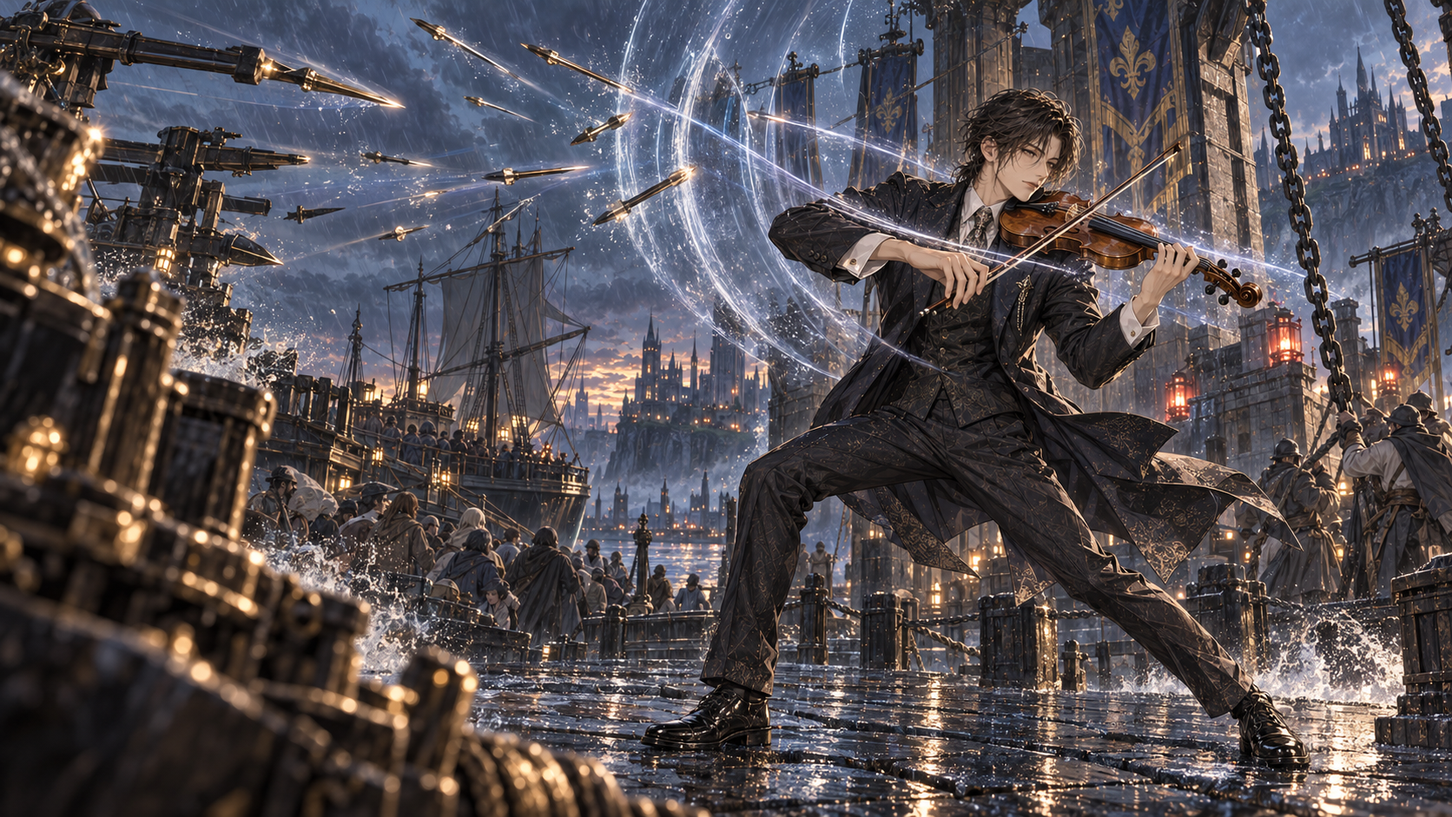
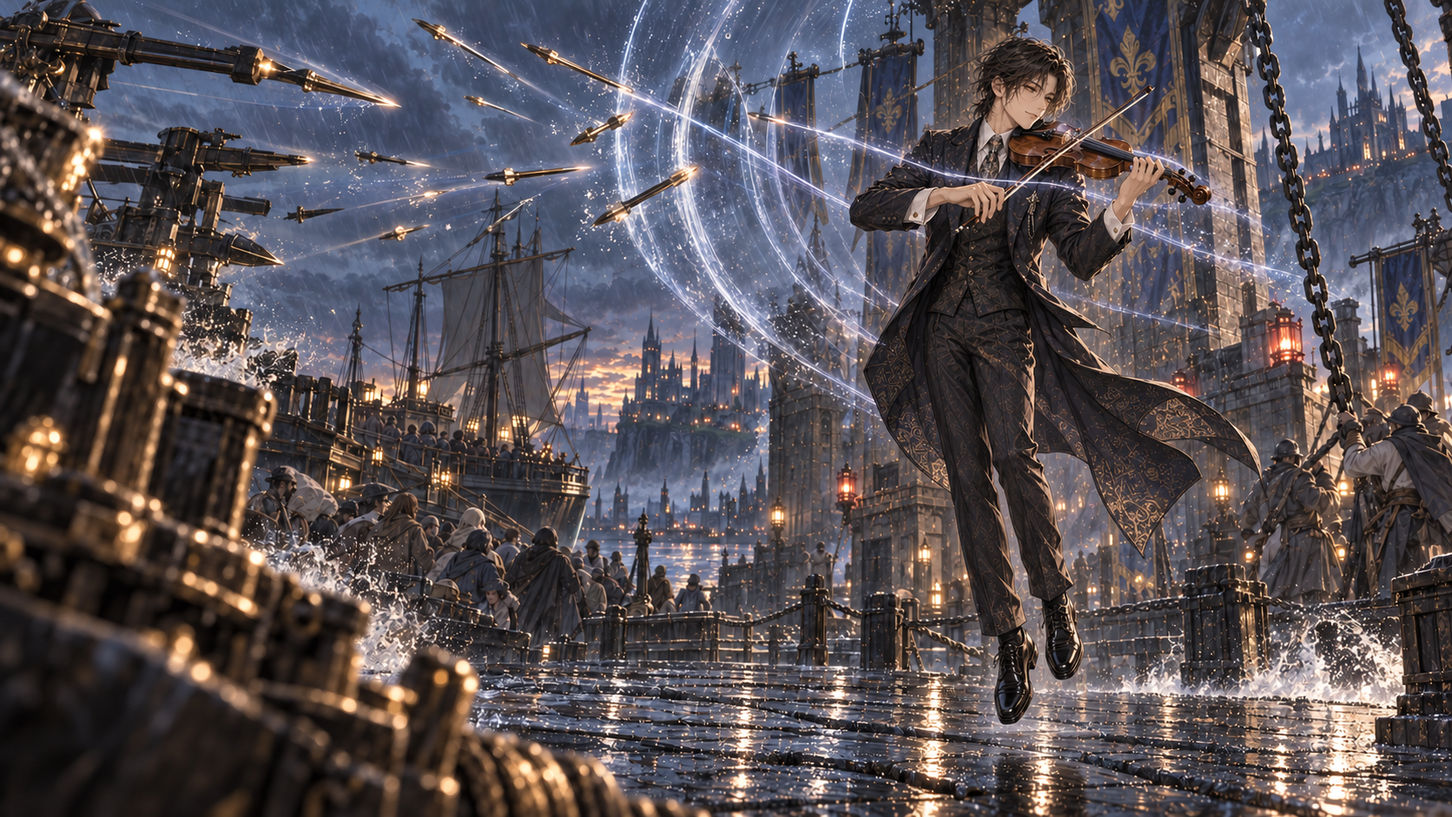
Redraw Soichi as serene floating violinist and Xiangxiang with sword and spirit flasks

diff --git a/docs/gallery/03.html b/docs/gallery/03.html
@@ -15,11 +15,11 @@
 <a class="brand" href="../" aria-label="九域守界首页"><span class="brand-mark" aria-hidden="true">九</span><span>九域守界</span></a>
 <nav aria-label="主导航"><a href="../gallery/" aria-current="page">人物图集</a><a href="../world/">世界观</a><a href="../chapters/">正文阅读</a><a href="../art/">印象画廊</a><a href="../fanworks/">二创</a><a class="repo-link" href="https://github.com/SDLTF/jiuyu-shoujie" target="_blank" rel="noopener">GitHub <span aria-hidden="true">↗</span></a></nav>
 </div></header>
-<main id="main"><div class="page-backdrop" aria-hidden="true"></div><section class="character-scene" data-scene-name="土方奏一" aria-label="土方奏一专属场景"><picture class="character-scene-art scene-slide is-active" data-scene-label="角色大图" data-scene-image="../assets/character-backgrounds/03.webp?v=3617d26fdf" data-scene-original="https://raw.githubusercontent.com/SDLTF/jiuyu-shoujie/main/assets/character-backgrounds/03.png" data-scene-kind="portrait" aria-hidden="true"><source media="(max-width: 640px)" srcset="../assets/character-backgrounds/03-mobile.webp?v=1d1843e5d5"><img src="../assets/character-backgrounds/03.webp?v=3617d26fdf" alt="" width="1672" height="941" fetchpriority="high"></picture><picture class="character-scene-art scene-slide" data-scene-label="战斗场景" data-scene-image="../assets/character-battles/03.webp?v=5318d3c48b" data-scene-original="https://raw.githubusercontent.com/SDLTF/jiuyu-shoujie/main/assets/character-battles/03.png" data-scene-kind="battle" style="--scene-focus-x:69%" aria-hidden="true"><img data-scene-src="../assets/character-battles/03.webp?v=5318d3c48b" data-scene-srcset="../assets/character-battles/03-480.webp?v=6d19a0b7c6 480w, ../assets/character-battles/03-960.webp?v=1443861413 959w, ../assets/character-battles/03.webp?v=5318d3c48b 1672w" sizes="(max-width: 640px) 200vw, max(100vw, 1600px)" alt="" width="1672" height="941" decoding="async"></picture><div class="scene-shade" aria-hidden="true"></div><div class="page-shell scene-content"><nav class="breadcrumbs" aria-label="位置"><a href="./">人物图集</a><span aria-hidden="true">/</span><span>土方奏一</span></nav>
+<main id="main"><div class="page-backdrop" aria-hidden="true"></div><section class="character-scene" data-scene-name="土方奏一" aria-label="土方奏一专属场景"><picture class="character-scene-art scene-slide is-active" data-scene-label="角色大图" data-scene-image="../assets/character-backgrounds/03.webp?v=3617d26fdf" data-scene-original="https://raw.githubusercontent.com/SDLTF/jiuyu-shoujie/main/assets/character-backgrounds/03.png" data-scene-kind="portrait" aria-hidden="true"><source media="(max-width: 640px)" srcset="../assets/character-backgrounds/03-mobile.webp?v=1d1843e5d5"><img src="../assets/character-backgrounds/03.webp?v=3617d26fdf" alt="" width="1672" height="941" fetchpriority="high"></picture><picture class="character-scene-art scene-slide" data-scene-label="战斗场景" data-scene-image="../assets/character-battles/03.webp?v=aff09be343" data-scene-original="https://raw.githubusercontent.com/SDLTF/jiuyu-shoujie/main/assets/character-battles/03.png" data-scene-kind="battle" style="--scene-focus-x:69%" aria-hidden="true"><img data-scene-src="../assets/character-battles/03.webp?v=aff09be343" data-scene-srcset="../assets/character-battles/03-480.webp?v=f78aebe76f 480w, ../assets/character-battles/03-960.webp?v=01ba61d4ff 959w, ../assets/character-battles/03.webp?v=aff09be343 1672w" sizes="(max-width: 640px) 200vw, max(100vw, 1600px)" alt="" width="1672" height="941" decoding="async"></picture><div class="scene-shade" aria-hidden="true"></div><div class="page-shell scene-content"><nav class="breadcrumbs" aria-label="位置"><a href="./">人物图集</a><span aria-hidden="true">/</span><span>土方奏一</span></nav>
 <header class="profile-heading"><div class="profile-avatar"><span class="avatar-window" data-avatar-style="original"><img data-avatar data-avatar-name="土方奏一" data-original-src="../assets/avatars/03-512.webp?v=c9cff16d51" data-original-srcset="../assets/avatars/03-256.webp?v=b8b3d1aaa7 256w, ../assets/avatars/03-512.webp?v=c9cff16d51 512w" data-chibi-src="../assets/chibi-avatars/03-512.webp?v=cea6bc5899" data-chibi-srcset="../assets/chibi-avatars/03-256.webp?v=d05bf43406 256w, ../assets/chibi-avatars/03-512.webp?v=cea6bc5899 410w" src="../assets/avatars/03-512.webp?v=c9cff16d51" srcset="../assets/avatars/03-256.webp?v=b8b3d1aaa7 256w, ../assets/avatars/03-512.webp?v=c9cff16d51 512w" sizes="94px" alt="土方奏一头像" width="512" height="512" fetchpriority="high" decoding="async"></span></div><div class="profile-heading-copy"><p class="eyebrow">九域守界 / 人物档案 03</p><h1>土方奏一</h1><p class="profile-name-line">陈彦堃</p><div class="profile-basic"><span>男性人类</span><span>23岁</span><span>181厘米</span></div></div></header><div class="avatar-switch" role="group" aria-label="图像风格" hidden><span class="avatar-switch-label">图像风格</span><div class="avatar-switch-options"><button type="button" data-avatar-choice="original" aria-pressed="true">原版头像</button><button type="button" data-avatar-choice="chibi" aria-pressed="false">Q版全身</button></div></div><blockquote class="profile-quote">“这一段我来。下一拍，听你们的。”</blockquote>
 <div class="scene-rotation-controls" role="group" aria-label="土方奏一背景轮换" hidden><span class="scene-rotation-label">背景切换</span><div class="scene-choices"><button type="button" data-scene-select="0" aria-pressed="true">角色大图</button><button type="button" data-scene-select="1" aria-pressed="false">战斗场景</button></div><button type="button" class="scene-rotation-toggle" aria-pressed="false">暂停轮换</button><span class="scene-current">角色大图 · 每 12 秒轮换</span><span class="scene-announcement" role="status"></span></div><div class="scene-actions"><div class="scene-action-group"><button type="button" class="button secondary image-open scene-view-current" data-image="../assets/character-backgrounds/03.webp?v=3617d26fdf" data-name="土方奏一 · 角色大图" data-kind="角色大图" data-original="https://raw.githubusercontent.com/SDLTF/jiuyu-shoujie/main/assets/character-backgrounds/03.png">查看当前大图 ↗</button><a href="https://raw.githubusercontent.com/SDLTF/jiuyu-shoujie/main/assets/character-backgrounds/03.png" target="_blank" rel="noopener" class="scene-original scene-original-current">背景原图</a></div><div class="scene-action-group"><button type="button" class="button secondary image-open avatar-open" data-avatar-viewer data-avatar-name="土方奏一" data-original-image="../assets/avatars/03.webp?v=4e27b1e418" data-chibi-image="../assets/chibi-avatars/03.webp?v=5cb47b2b52" data-original-source="https://raw.githubusercontent.com/SDLTF/jiuyu-shoujie/main/assets/avatars/03.png" data-chibi-source="https://raw.githubusercontent.com/SDLTF/jiuyu-shoujie/main/assets/chibi-avatars/03.png" data-image="../assets/avatars/03.webp?v=4e27b1e418" data-name="土方奏一 · 人物头像" data-kind="人物头像" data-original="https://raw.githubusercontent.com/SDLTF/jiuyu-shoujie/main/assets/avatars/03.png">查看人物头像 ↗</button><a data-avatar-download data-original-source="https://raw.githubusercontent.com/SDLTF/jiuyu-shoujie/main/assets/avatars/03.png" data-chibi-source="https://raw.githubusercontent.com/SDLTF/jiuyu-shoujie/main/assets/chibi-avatars/03.png" href="https://raw.githubusercontent.com/SDLTF/jiuyu-shoujie/main/assets/avatars/03.png" target="_blank" rel="noopener" class="scene-original">头像原图</a></div></div></div></section><div class="page-shell character-profile">
 <section id="chibi-stickers" class="profile-stickers" aria-labelledby="chibi-title"><div class="sticker-section-heading"><div><p class="eyebrow">CHIBI / 角色的另一种表情</p><h2 id="chibi-title">Q版全身立绘与表情包</h2><p>一张完整立绘，三种不同心情。点击图片放大，或下载透明原图。</p></div><div class="sticker-links"><a href="https://raw.githubusercontent.com/SDLTF/jiuyu-shoujie/main/assets/chibi-stickers/sheets/03.png" target="_blank" rel="noopener">查看四宫格 ↗</a><a href="../stickers/#role-03">全部角色表情包 →</a></div></div><div class="sticker-grid"><figure class="sticker-card"><button type="button" class="image-open sticker-image" data-image="../assets/chibi-stickers/03/01.webp?v=6e266d61c1" data-name="土方奏一 · 巡演音乐生" data-kind="Q版全身立绘" data-alt="站立持小提琴和琴弓，礼服衣摆与双鞋完整。" data-original="../assets/chibi-stickers/03/01.png?v=d553f5f53b" aria-label="放大土方奏一 · 巡演音乐生"><img src="../assets/chibi-stickers/03/01.webp?v=6e266d61c1" srcset="../assets/chibi-stickers/03/01-256.webp?v=7585213feb 256w, ../assets/chibi-stickers/03/01.webp?v=6e266d61c1 410w" sizes="(max-width:640px) 43vw, (max-width:1000px) 40vw, 280px" width="410" height="410" alt="站立持小提琴和琴弓，礼服衣摆与双鞋完整。" loading="lazy" decoding="async"><span class="image-hint">放大查看 ↗</span></button><figcaption><span class="sticker-kind">全身立绘</span><h3>巡演音乐生</h3><p>平静</p><a href="../assets/chibi-stickers/03/01.png?v=d553f5f53b" download="03_土方奏一_01_巡演音乐生.png">下载透明 PNG ↓</a></figcaption></figure><figure class="sticker-card"><button type="button" class="image-open sticker-image" data-image="../assets/chibi-stickers/03/02.webp?v=c93b861880" data-name="土方奏一 · 优美一曲" data-kind="Q版表情1" data-alt="闭眼笑着演奏小提琴，一只脚轻抬，音符在身旁浮起。" data-original="../assets/chibi-stickers/03/02.png?v=eeae83acd0" aria-label="放大土方奏一 · 优美一曲"><img src="../assets/chibi-stickers/03/02.webp?v=c93b861880" srcset="../assets/chibi-stickers/03/02-256.webp?v=3b3af25e5d 256w, ../assets/chibi-stickers/03/02.webp?v=c93b861880 408w" sizes="(max-width:640px) 43vw, (max-width:1000px) 40vw, 280px" width="408" height="408" alt="闭眼笑着演奏小提琴，一只脚轻抬，音符在身旁浮起。" loading="lazy" decoding="async"><span class="image-hint">放大查看 ↗</span></button><figcaption><span class="sticker-kind">表情1</span><h3>优美一曲</h3><p>陶醉</p><a href="../assets/chibi-stickers/03/02.png?v=eeae83acd0" download="03_土方奏一_02_优美一曲.png">下载透明 PNG ↓</a></figcaption></figure><figure class="sticker-card"><button type="button" class="image-open sticker-image" data-image="../assets/chibi-stickers/03/03.webp?v=815aa0a92c" data-name="土方奏一 · 不合拍" data-kind="Q版表情2" data-alt="坐在琴箱上抱臂，抿嘴微鼓脸，双鞋向前，汗滴表现闷闷不乐。" data-original="../assets/chibi-stickers/03/03.png?v=de7e72634f" aria-label="放大土方奏一 · 不合拍"><img src="../assets/chibi-stickers/03/03.webp?v=815aa0a92c" srcset="../assets/chibi-stickers/03/03-256.webp?v=7ed3877e36 256w, ../assets/chibi-stickers/03/03.webp?v=815aa0a92c 407w" sizes="(max-width:640px) 43vw, (max-width:1000px) 40vw, 280px" width="407" height="407" alt="坐在琴箱上抱臂，抿嘴微鼓脸，双鞋向前，汗滴表现闷闷不乐。" loading="lazy" decoding="async"><span class="image-hint">放大查看 ↗</span></button><figcaption><span class="sticker-kind">表情2</span><h3>不合拍</h3><p>嫌弃、无奈</p><a href="../assets/chibi-stickers/03/03.png?v=de7e72634f" download="03_土方奏一_03_不合拍.png">下载透明 PNG ↓</a></figcaption></figure><figure class="sticker-card"><button type="button" class="image-open sticker-image" data-image="../assets/chibi-stickers/03/04.webp?v=e0a499aa94" data-name="土方奏一 · 谢谢欣赏" data-kind="Q版表情3" data-alt="眨眼行礼，一手按胸，另一手携琴与弓，星光点亮身旁。" data-original="../assets/chibi-stickers/03/04.png?v=fd72631fe9" aria-label="放大土方奏一 · 谢谢欣赏"><img src="../assets/chibi-stickers/03/04.webp?v=e0a499aa94" srcset="../assets/chibi-stickers/03/04-256.webp?v=5dd14433f8 256w, ../assets/chibi-stickers/03/04.webp?v=e0a499aa94 416w" sizes="(max-width:640px) 43vw, (max-width:1000px) 40vw, 280px" width="416" height="416" alt="眨眼行礼，一手按胸，另一手携琴与弓，星光点亮身旁。" loading="lazy" decoding="async"><span class="image-hint">放大查看 ↗</span></button><figcaption><span class="sticker-kind">表情3</span><h3>谢谢欣赏</h3><p>得意</p><a href="../assets/chibi-stickers/03/04.png?v=fd72631fe9" download="03_土方奏一_04_谢谢欣赏.png">下载透明 PNG ↓</a></figcaption></figure></div></section><div class="profile-layout"><section class="dossier-section" aria-labelledby="dossier-title"><h2 id="dossier-title">人物展示卡</h2><button type="button" class="image-open dossier-image" data-image="../assets/images/03.webp" data-name="土方奏一" data-original="https://raw.githubusercontent.com/SDLTF/jiuyu-shoujie/main/assets/originals/03.png" aria-label="放大土方奏一人物展示卡"><img src="../assets/images/03.webp" alt="土方奏一完整人物展示卡" width="1774" height="887"><span class="image-hint">点击放大</span></button><div class="dossier-actions"><a class="button secondary" href="../assets/images/03.webp" target="_blank" rel="noopener">打开完整图片</a><a class="button secondary" href="https://raw.githubusercontent.com/SDLTF/jiuyu-shoujie/main/assets/originals/03.png" target="_blank" rel="noopener">查看原始 PNG</a></div></section><section class="profile-info" aria-labelledby="profile-info-title"><h2 id="profile-info-title">个人资料</h2><section class="profile-section"><h3>身份</h3><p>巡演音乐生 · 共振施术者</p></section><section class="profile-section"><h3>性格</h3><p>腹黑文艺，言语轻而锋利。</p><p>审美严格，演奏始终优美。</p></section><section class="profile-section"><h3>衣装与专武</h3><p>整洁西装</p><p>斯特拉迪瓦里小提琴</p></section><section class="profile-section"><h3>能力</h3><p>以共振掌控施法节拍。</p><p>技术与输出均属顶尖。</p></section><section class="profile-section"><h3>立场</h3><p>从维持均势到主动承担选择。</p></section></section></div>
-<section class="character-art-section" aria-labelledby="character-art-title"><header class="character-art-intro"><p class="eyebrow">SCENES & BATTLES / 角色插画</p><h2 id="character-art-title">人物插画与战斗壁纸</h2><p>走进角色的日常与交锋。点击图片放大，用左右按钮切换档案中的插画。</p></header><div class="character-art-grid"><article class="character-art-card character-art-portrait"><div class="character-art-heading"><p class="eyebrow">人设图-2</p><h3>叙事人设</h3></div><button type="button" class="image-open character-art-image" data-image="../assets/character-scenes/03.webp?v=05febad7c3" data-name="土方奏一 · 人设图-2 · 叙事人设" data-kind="人设图-2" data-alt="土方奏一：土方奏一的第二版人设插画，沿用已有角色外观，呈现独立的动作与场景。" data-original="https://raw.githubusercontent.com/SDLTF/jiuyu-shoujie/main/assets/character-scenes/03.png" aria-label="放大土方奏一的人设图-2"><img src="../assets/character-scenes/03.webp?v=05febad7c3" srcset="../assets/character-scenes/03-480.webp?v=5e1e8c19e7 480w, ../assets/character-scenes/03-960.webp?v=d45ad30c7b 960w, ../assets/character-scenes/03.webp?v=05febad7c3 1086w" sizes="(max-width: 760px) calc(100vw - 32px), 50vw" alt="土方奏一：土方奏一的第二版人设插画，沿用已有角色外观，呈现独立的动作与场景。" width="1086" height="1448" loading="lazy" decoding="async"><span class="image-hint">点击放大 · 完整构图</span></button><div class="character-art-description"><p>土方奏一的第二版人设插画，沿用已有角色外观，呈现独立的动作与场景。</p><a href="https://raw.githubusercontent.com/SDLTF/jiuyu-shoujie/main/assets/character-scenes/03.png" target="_blank" rel="noopener">查看原始 PNG ↗</a></div></article><article class="character-art-card character-art-battle"><div class="character-art-heading"><p class="eyebrow">战斗壁纸</p><h3>弦上逆潮</h3></div><button type="button" class="image-open character-art-image" data-image="../assets/character-battles/03.webp?v=5318d3c48b" data-name="土方奏一 · 战斗壁纸 · 弦上逆潮" data-kind="战斗壁纸" data-alt="土方奏一：小提琴的共振截住来袭，为港口撤离争取节拍。" data-original="https://raw.githubusercontent.com/SDLTF/jiuyu-shoujie/main/assets/character-battles/03.png" aria-label="放大土方奏一的战斗壁纸"><img src="../assets/character-battles/03.webp?v=5318d3c48b" srcset="../assets/character-battles/03-480.webp?v=6d19a0b7c6 480w, ../assets/character-battles/03-960.webp?v=1443861413 959w, ../assets/character-battles/03.webp?v=5318d3c48b 1672w" sizes="(max-width: 760px) calc(100vw - 32px), 50vw" alt="土方奏一：小提琴的共振截住来袭，为港口撤离争取节拍。" width="1672" height="941" loading="lazy" decoding="async"><span class="image-hint">点击放大 · 完整构图</span></button><div class="character-art-description"><p>小提琴的共振截住来袭，为港口撤离争取节拍。</p><a href="https://raw.githubusercontent.com/SDLTF/jiuyu-shoujie/main/assets/character-battles/03.png" target="_blank" rel="noopener">查看原始 PNG ↗</a></div></article></div></section><nav class="profile-pagination" aria-label="人物导航"><a href="02.html"><span>上一位</span>琉西法</a><a class="back-to-gallery" href="./">全部人物</a><a href="04.html"><span>下一位</span>贾小鱼</a></nav></div><dialog id="image-viewer" aria-labelledby="viewer-name"><div class="viewer-toolbar"><h2 id="viewer-name">人物档案</h2><div><button id="viewer-zoom" type="button" aria-pressed="false">放大细节</button><button id="viewer-close" type="button" aria-label="关闭图片">关闭 <span aria-hidden="true">×</span></button></div></div><div class="viewer-navigation" aria-label="图片切换"><button id="viewer-prev" type="button">← 上一幅</button><span id="viewer-position" aria-live="polite"></span><button id="viewer-next" type="button">下一幅 →</button></div><div class="viewer-image-wrap"><img id="viewer-image" alt=""></div><div class="viewer-bottom"><p class="viewer-tip">放大后可滑动查看图片细节</p><a id="viewer-original" target="_blank" rel="noopener">查看原始 PNG</a></div></dialog></main>
+<section class="character-art-section" aria-labelledby="character-art-title"><header class="character-art-intro"><p class="eyebrow">SCENES & BATTLES / 角色插画</p><h2 id="character-art-title">人物插画与战斗壁纸</h2><p>走进角色的日常与交锋。点击图片放大，用左右按钮切换档案中的插画。</p></header><div class="character-art-grid"><article class="character-art-card character-art-portrait"><div class="character-art-heading"><p class="eyebrow">人设图-2</p><h3>叙事人设</h3></div><button type="button" class="image-open character-art-image" data-image="../assets/character-scenes/03.webp?v=05febad7c3" data-name="土方奏一 · 人设图-2 · 叙事人设" data-kind="人设图-2" data-alt="土方奏一：土方奏一的第二版人设插画，沿用已有角色外观，呈现独立的动作与场景。" data-original="https://raw.githubusercontent.com/SDLTF/jiuyu-shoujie/main/assets/character-scenes/03.png" aria-label="放大土方奏一的人设图-2"><img src="../assets/character-scenes/03.webp?v=05febad7c3" srcset="../assets/character-scenes/03-480.webp?v=5e1e8c19e7 480w, ../assets/character-scenes/03-960.webp?v=d45ad30c7b 960w, ../assets/character-scenes/03.webp?v=05febad7c3 1086w" sizes="(max-width: 760px) calc(100vw - 32px), 50vw" alt="土方奏一：土方奏一的第二版人设插画，沿用已有角色外观，呈现独立的动作与场景。" width="1086" height="1448" loading="lazy" decoding="async"><span class="image-hint">点击放大 · 完整构图</span></button><div class="character-art-description"><p>土方奏一的第二版人设插画，沿用已有角色外观，呈现独立的动作与场景。</p><a href="https://raw.githubusercontent.com/SDLTF/jiuyu-shoujie/main/assets/character-scenes/03.png" target="_blank" rel="noopener">查看原始 PNG ↗</a></div></article><article class="character-art-card character-art-battle"><div class="character-art-heading"><p class="eyebrow">战斗壁纸</p><h3>弦上逆潮</h3></div><button type="button" class="image-open character-art-image" data-image="../assets/character-battles/03.webp?v=aff09be343" data-name="土方奏一 · 战斗壁纸 · 弦上逆潮" data-kind="战斗壁纸" data-alt="土方奏一：他气定神闲地悬浮演奏，双腿自然垂落，以小提琴共振截住来袭，守住港口撤离的节拍。" data-original="https://raw.githubusercontent.com/SDLTF/jiuyu-shoujie/main/assets/character-battles/03.png" aria-label="放大土方奏一的战斗壁纸"><img src="../assets/character-battles/03.webp?v=aff09be343" srcset="../assets/character-battles/03-480.webp?v=f78aebe76f 480w, ../assets/character-battles/03-960.webp?v=01ba61d4ff 959w, ../assets/character-battles/03.webp?v=aff09be343 1672w" sizes="(max-width: 760px) calc(100vw - 32px), 50vw" alt="土方奏一：他气定神闲地悬浮演奏，双腿自然垂落，以小提琴共振截住来袭，守住港口撤离的节拍。" width="1672" height="941" loading="lazy" decoding="async"><span class="image-hint">点击放大 · 完整构图</span></button><div class="character-art-description"><p>他气定神闲地悬浮演奏，双腿自然垂落，以小提琴共振截住来袭，守住港口撤离的节拍。</p><a href="https://raw.githubusercontent.com/SDLTF/jiuyu-shoujie/main/assets/character-battles/03.png" target="_blank" rel="noopener">查看原始 PNG ↗</a></div></article></div></section><nav class="profile-pagination" aria-label="人物导航"><a href="02.html"><span>上一位</span>琉西法</a><a class="back-to-gallery" href="./">全部人物</a><a href="04.html"><span>下一位</span>贾小鱼</a></nav></div><dialog id="image-viewer" aria-labelledby="viewer-name"><div class="viewer-toolbar"><h2 id="viewer-name">人物档案</h2><div><button id="viewer-zoom" type="button" aria-pressed="false">放大细节</button><button id="viewer-close" type="button" aria-label="关闭图片">关闭 <span aria-hidden="true">×</span></button></div></div><div class="viewer-navigation" aria-label="图片切换"><button id="viewer-prev" type="button">← 上一幅</button><span id="viewer-position" aria-live="polite"></span><button id="viewer-next" type="button">下一幅 →</button></div><div class="viewer-image-wrap"><img id="viewer-image" alt=""></div><div class="viewer-bottom"><p class="viewer-tip">放大后可滑动查看图片细节</p><a id="viewer-original" target="_blank" rel="noopener">查看原始 PNG</a></div></dialog></main>
 <footer class="site-footer"><div><a class="footer-title" href="../">九域守界</a><span>故事与人物档案 · SDLTF</span></div>
 <a href="../world/" class="footer-world-link">世界观与术语 ↗</a></footer>
 </body></html>

diff --git a/docs/gallery/13.html b/docs/gallery/13.html
@@ -15,11 +15,11 @@
 <a class="brand" href="../" aria-label="九域守界首页"><span class="brand-mark" aria-hidden="true">九</span><span>九域守界</span></a>
 <nav aria-label="主导航"><a href="../gallery/" aria-current="page">人物图集</a><a href="../world/">世界观</a><a href="../chapters/">正文阅读</a><a href="../art/">印象画廊</a><a href="../fanworks/">二创</a><a class="repo-link" href="https://github.com/SDLTF/jiuyu-shoujie" target="_blank" rel="noopener">GitHub <span aria-hidden="true">↗</span></a></nav>
 </div></header>
-<main id="main"><div class="page-backdrop" aria-hidden="true"></div><section class="character-scene" data-scene-name="赵香香" aria-label="赵香香专属场景"><picture class="character-scene-art scene-slide is-active" data-scene-label="角色大图" data-scene-image="../assets/character-backgrounds/13.webp?v=e6cb98d2ab" data-scene-original="https://raw.githubusercontent.com/SDLTF/jiuyu-shoujie/main/assets/character-backgrounds/13.png" data-scene-kind="portrait" aria-hidden="true"><source media="(max-width: 640px)" srcset="../assets/character-backgrounds/13-mobile.webp?v=a5d0970a21"><img src="../assets/character-backgrounds/13.webp?v=e6cb98d2ab" alt="" width="1672" height="941" fetchpriority="high"></picture><picture class="character-scene-art scene-slide" data-scene-label="战斗场景" data-scene-image="../assets/character-battles/13.webp?v=daf0032c27" data-scene-original="https://raw.githubusercontent.com/SDLTF/jiuyu-shoujie/main/assets/character-battles/13.png" data-scene-kind="battle" style="--scene-focus-x:48%" aria-hidden="true"><img data-scene-src="../assets/character-battles/13.webp?v=daf0032c27" data-scene-srcset="../assets/character-battles/13-480.webp?v=c0ba43fa2e 480w, ../assets/character-battles/13-960.webp?v=0e102405ac 959w, ../assets/character-battles/13.webp?v=daf0032c27 1672w" sizes="(max-width: 640px) 200vw, max(100vw, 1600px)" alt="" width="1672" height="941" decoding="async"></picture><div class="scene-shade" aria-hidden="true"></div><div class="page-shell scene-content"><nav class="breadcrumbs" aria-label="位置"><a href="./">人物图集</a><span aria-hidden="true">/</span><span>赵香香</span></nav>
+<main id="main"><div class="page-backdrop" aria-hidden="true"></div><section class="character-scene" data-scene-name="赵香香" aria-label="赵香香专属场景"><picture class="character-scene-art scene-slide is-active" data-scene-label="角色大图" data-scene-image="../assets/character-backgrounds/13.webp?v=e6cb98d2ab" data-scene-original="https://raw.githubusercontent.com/SDLTF/jiuyu-shoujie/main/assets/character-backgrounds/13.png" data-scene-kind="portrait" aria-hidden="true"><source media="(max-width: 640px)" srcset="../assets/character-backgrounds/13-mobile.webp?v=a5d0970a21"><img src="../assets/character-backgrounds/13.webp?v=e6cb98d2ab" alt="" width="1672" height="941" fetchpriority="high"></picture><picture class="character-scene-art scene-slide" data-scene-label="战斗场景" data-scene-image="../assets/character-battles/13.webp?v=a3c837dc4e" data-scene-original="https://raw.githubusercontent.com/SDLTF/jiuyu-shoujie/main/assets/character-battles/13.png" data-scene-kind="battle" style="--scene-focus-x:58%" aria-hidden="true"><img data-scene-src="../assets/character-battles/13.webp?v=a3c837dc4e" data-scene-srcset="../assets/character-battles/13-480.webp?v=0e1312ce6a 480w, ../assets/character-battles/13-960.webp?v=dd33838624 959w, ../assets/character-battles/13.webp?v=a3c837dc4e 1672w" sizes="(max-width: 640px) 200vw, max(100vw, 1600px)" alt="" width="1672" height="941" decoding="async"></picture><div class="scene-shade" aria-hidden="true"></div><div class="page-shell scene-content"><nav class="breadcrumbs" aria-label="位置"><a href="./">人物图集</a><span aria-hidden="true">/</span><span>赵香香</span></nav>
 <header class="profile-heading"><div class="profile-avatar"><span class="avatar-window" data-avatar-style="original"><img data-avatar data-avatar-name="赵香香" data-original-src="../assets/avatars/13-512.webp?v=8ebee9a7bc" data-original-srcset="../assets/avatars/13-256.webp?v=f6565317bc 256w, ../assets/avatars/13-512.webp?v=8ebee9a7bc 512w" data-chibi-src="../assets/chibi-avatars/13-512.webp?v=5a21394069" data-chibi-srcset="../assets/chibi-avatars/13-256.webp?v=da243ac429 256w, ../assets/chibi-avatars/13-512.webp?v=5a21394069 342w" src="../assets/avatars/13-512.webp?v=8ebee9a7bc" srcset="../assets/avatars/13-256.webp?v=f6565317bc 256w, ../assets/avatars/13-512.webp?v=8ebee9a7bc 512w" sizes="94px" alt="赵香香头像" width="512" height="512" fetchpriority="high" decoding="async"></span></div><div class="profile-heading-copy"><p class="eyebrow">九域守界 / 人物档案 13</p><h1>赵香香</h1><p class="profile-name-line">赵鑫</p><div class="profile-basic"><span>男性酒神</span><span>外观18岁</span><span>183厘米</span></div></div></header><div class="avatar-switch" role="group" aria-label="图像风格" hidden><span class="avatar-switch-label">图像风格</span><div class="avatar-switch-options"><button type="button" data-avatar-choice="original" aria-pressed="true">原版头像</button><button type="button" data-avatar-choice="chibi" aria-pressed="false">Q版全身</button></div></div><blockquote class="profile-quote">“先交个朋友，再说喝哪一杯。”</blockquote>
 <div class="scene-rotation-controls" role="group" aria-label="赵香香背景轮换" hidden><span class="scene-rotation-label">背景切换</span><div class="scene-choices"><button type="button" data-scene-select="0" aria-pressed="true">角色大图</button><button type="button" data-scene-select="1" aria-pressed="false">战斗场景</button></div><button type="button" class="scene-rotation-toggle" aria-pressed="false">暂停轮换</button><span class="scene-current">角色大图 · 每 12 秒轮换</span><span class="scene-announcement" role="status"></span></div><div class="scene-actions"><div class="scene-action-group"><button type="button" class="button secondary image-open scene-view-current" data-image="../assets/character-backgrounds/13.webp?v=e6cb98d2ab" data-name="赵香香 · 角色大图" data-kind="角色大图" data-original="https://raw.githubusercontent.com/SDLTF/jiuyu-shoujie/main/assets/character-backgrounds/13.png">查看当前大图 ↗</button><a href="https://raw.githubusercontent.com/SDLTF/jiuyu-shoujie/main/assets/character-backgrounds/13.png" target="_blank" rel="noopener" class="scene-original scene-original-current">背景原图</a></div><div class="scene-action-group"><button type="button" class="button secondary image-open avatar-open" data-avatar-viewer data-avatar-name="赵香香" data-original-image="../assets/avatars/13.webp?v=8f9b1ed318" data-chibi-image="../assets/chibi-avatars/13.webp?v=21e27c03bc" data-original-source="https://raw.githubusercontent.com/SDLTF/jiuyu-shoujie/main/assets/avatars/13.png" data-chibi-source="https://raw.githubusercontent.com/SDLTF/jiuyu-shoujie/main/assets/chibi-avatars/13.png" data-image="../assets/avatars/13.webp?v=8f9b1ed318" data-name="赵香香 · 人物头像" data-kind="人物头像" data-original="https://raw.githubusercontent.com/SDLTF/jiuyu-shoujie/main/assets/avatars/13.png">查看人物头像 ↗</button><a data-avatar-download data-original-source="https://raw.githubusercontent.com/SDLTF/jiuyu-shoujie/main/assets/avatars/13.png" data-chibi-source="https://raw.githubusercontent.com/SDLTF/jiuyu-shoujie/main/assets/chibi-avatars/13.png" href="https://raw.githubusercontent.com/SDLTF/jiuyu-shoujie/main/assets/avatars/13.png" target="_blank" rel="noopener" class="scene-original">头像原图</a></div></div></div></section><div class="page-shell character-profile">
 <section id="chibi-stickers" class="profile-stickers" aria-labelledby="chibi-title"><div class="sticker-section-heading"><div><p class="eyebrow">CHIBI / 角色的另一种表情</p><h2 id="chibi-title">Q版全身立绘与表情包</h2><p>一张完整立绘，三种不同心情。点击图片放大，或下载透明原图。</p></div><div class="sticker-links"><a href="https://raw.githubusercontent.com/SDLTF/jiuyu-shoujie/main/assets/chibi-stickers/sheets/13.png" target="_blank" rel="noopener">查看四宫格 ↗</a><a href="../stickers/#role-13">全部角色表情包 →</a></div></div><div class="sticker-grid"><figure class="sticker-card"><button type="button" class="image-open sticker-image" data-image="../assets/chibi-stickers/13/01.webp?v=7fd5dd11b5" data-name="赵香香 · 酒馆老板" data-kind="Q版全身立绘" data-alt="站立拿瓶和杯，衣摆与双靴完整。" data-original="../assets/chibi-stickers/13/01.png?v=1a3793594c" aria-label="放大赵香香 · 酒馆老板"><img src="../assets/chibi-stickers/13/01.webp?v=7fd5dd11b5" srcset="../assets/chibi-stickers/13/01-256.webp?v=473aa15df2 256w, ../assets/chibi-stickers/13/01.webp?v=7fd5dd11b5 342w" sizes="(max-width:640px) 43vw, (max-width:1000px) 40vw, 280px" width="342" height="342" alt="站立拿瓶和杯，衣摆与双靴完整。" loading="lazy" decoding="async"><span class="image-hint">放大查看 ↗</span></button><figcaption><span class="sticker-kind">全身立绘</span><h3>酒馆老板</h3><p>平静</p><a href="../assets/chibi-stickers/13/01.png?v=1a3793594c" download="13_赵香香_01_酒馆老板.png">下载透明 PNG ↓</a></figcaption></figure><figure class="sticker-card"><button type="button" class="image-open sticker-image" data-image="../assets/chibi-stickers/13/02.webp?v=638b37cce5" data-name="赵香香 · 敬你一杯" data-kind="Q版表情1" data-alt="举杯笑着敬酒，一只脚轻抬，金色星光点缀。" data-original="../assets/chibi-stickers/13/02.png?v=bd7815084c" aria-label="放大赵香香 · 敬你一杯"><img src="../assets/chibi-stickers/13/02.webp?v=638b37cce5" srcset="../assets/chibi-stickers/13/02-256.webp?v=9b1577d409 256w, ../assets/chibi-stickers/13/02.webp?v=638b37cce5 341w" sizes="(max-width:640px) 43vw, (max-width:1000px) 40vw, 280px" width="341" height="341" alt="举杯笑着敬酒，一只脚轻抬，金色星光点缀。" loading="lazy" decoding="async"><span class="image-hint">放大查看 ↗</span></button><figcaption><span class="sticker-kind">表情1</span><h3>敬你一杯</h3><p>开心、招呼</p><a href="../assets/chibi-stickers/13/02.png?v=bd7815084c" download="13_赵香香_02_敬你一杯.png">下载透明 PNG ↓</a></figcaption></figure><figure class="sticker-card"><button type="button" class="image-open sticker-image" data-image="../assets/chibi-stickers/13/03.webp?v=926dd84fb0" data-name="赵香香 · 配方正好" data-kind="Q版表情2" data-alt="站着把红色小瓶里的液体倒入蓝色瓶，身旁放着装瓶的小箱。" data-original="../assets/chibi-stickers/13/03.png?v=d6378eb44a" aria-label="放大赵香香 · 配方正好"><img src="../assets/chibi-stickers/13/03.webp?v=926dd84fb0" srcset="../assets/chibi-stickers/13/03-256.webp?v=ecf3a95afe 256w, ../assets/chibi-stickers/13/03.webp?v=926dd84fb0 419w" sizes="(max-width:640px) 43vw, (max-width:1000px) 40vw, 280px" width="419" height="419" alt="站着把红色小瓶里的液体倒入蓝色瓶，身旁放着装瓶的小箱。" loading="lazy" decoding="async"><span class="image-hint">放大查看 ↗</span></button><figcaption><span class="sticker-kind">表情2</span><h3>配方正好</h3><p>得意、专注</p><a href="../assets/chibi-stickers/13/03.png?v=d6378eb44a" download="13_赵香香_03_配方正好.png">下载透明 PNG ↓</a></figcaption></figure><figure class="sticker-card"><button type="button" class="image-open sticker-image" data-image="../assets/chibi-stickers/13/04.webp?v=299618e661" data-name="赵香香 · 别喝太快" data-kind="Q版表情3" data-alt="护着瓶子并抬掌制止，张嘴后仰，抬脚和汗滴表现担心。" data-original="../assets/chibi-stickers/13/04.png?v=46f15bfe74" aria-label="放大赵香香 · 别喝太快"><img src="../assets/chibi-stickers/13/04.webp?v=299618e661" srcset="../assets/chibi-stickers/13/04-256.webp?v=7069c1557f 256w, ../assets/chibi-stickers/13/04.webp?v=299618e661 352w" sizes="(max-width:640px) 43vw, (max-width:1000px) 40vw, 280px" width="352" height="352" alt="护着瓶子并抬掌制止，张嘴后仰，抬脚和汗滴表现担心。" loading="lazy" decoding="async"><span class="image-hint">放大查看 ↗</span></button><figcaption><span class="sticker-kind">表情3</span><h3>别喝太快</h3><p>担心、惊讶</p><a href="../assets/chibi-stickers/13/04.png?v=46f15bfe74" download="13_赵香香_04_别喝太快.png">下载透明 PNG ↓</a></figcaption></figure></div></section><div class="profile-layout"><section class="dossier-section" aria-labelledby="dossier-title"><h2 id="dossier-title">人物展示卡</h2><button type="button" class="image-open dossier-image" data-image="../assets/images/13.webp" data-name="赵香香" data-original="https://raw.githubusercontent.com/SDLTF/jiuyu-shoujie/main/assets/originals/13.png" aria-label="放大赵香香人物展示卡"><img src="../assets/images/13.webp" alt="赵香香完整人物展示卡" width="1774" height="887"><span class="image-hint">点击放大</span></button><div class="dossier-actions"><a class="button secondary" href="../assets/images/13.webp" target="_blank" rel="noopener">打开完整图片</a><a class="button secondary" href="https://raw.githubusercontent.com/SDLTF/jiuyu-shoujie/main/assets/originals/13.png" target="_blank" rel="noopener">查看原始 PNG</a></div></section><section class="profile-info" aria-labelledby="profile-info-title"><h2 id="profile-info-title">个人资料</h2><section class="profile-section"><h3>身份</h3><p>酒泉神格持有者 · 酒馆老板</p></section><section class="profile-section"><h3>性格</h3><p>骚气爱热闹，喜欢交朋友。</p><p>一桌陌生人，也能喝成熟人。</p></section><section class="profile-section"><h3>随身物品</h3><p>多功能灵酒与清水</p><p>酒泉祝绳</p></section><section class="profile-section"><h3>能力</h3><p>灵酒可疗伤、增幅与清醒。</p><p>不同配方，功效各不相同。</p></section><section class="profile-section"><h3>关系</h3><p>mwc：制度上的儿子</p></section></section></div>
-<section class="character-art-section" aria-labelledby="character-art-title"><header class="character-art-intro"><p class="eyebrow">SCENES & BATTLES / 角色插画</p><h2 id="character-art-title">人物插画与战斗壁纸</h2><p>走进角色的日常与交锋。点击图片放大，用左右按钮切换档案中的插画。</p></header><div class="character-art-grid"><article class="character-art-card character-art-portrait"><div class="character-art-heading"><p class="eyebrow">人设图-2</p><h3>叙事人设</h3></div><button type="button" class="image-open character-art-image" data-image="../assets/character-scenes/13.webp?v=fdd9f6ebea" data-name="赵香香 · 人设图-2 · 叙事人设" data-kind="人设图-2" data-alt="赵香香：赵香香的第二版人设插画，沿用已有角色外观，呈现独立的动作与场景。" data-original="https://raw.githubusercontent.com/SDLTF/jiuyu-shoujie/main/assets/character-scenes/13.png" aria-label="放大赵香香的人设图-2"><img src="../assets/character-scenes/13.webp?v=fdd9f6ebea" srcset="../assets/character-scenes/13-480.webp?v=663fcb009a 480w, ../assets/character-scenes/13-960.webp?v=c246e452a4 960w, ../assets/character-scenes/13.webp?v=fdd9f6ebea 1086w" sizes="(max-width: 760px) calc(100vw - 32px), 50vw" alt="赵香香：赵香香的第二版人设插画，沿用已有角色外观，呈现独立的动作与场景。" width="1086" height="1448" loading="lazy" decoding="async"><span class="image-hint">点击放大 · 完整构图</span></button><div class="character-art-description"><p>赵香香的第二版人设插画，沿用已有角色外观，呈现独立的动作与场景。</p><a href="https://raw.githubusercontent.com/SDLTF/jiuyu-shoujie/main/assets/character-scenes/13.png" target="_blank" rel="noopener">查看原始 PNG ↗</a></div></article><article class="character-art-card character-art-battle"><div class="character-art-heading"><p class="eyebrow">战斗壁纸</p><h3>酒泉夜守</h3></div><button type="button" class="image-open character-art-image" data-image="../assets/character-battles/13.webp?v=daf0032c27" data-name="赵香香 · 战斗壁纸 · 酒泉夜守" data-kind="战斗壁纸" data-alt="赵香香：酒馆受袭时，他以灵酒与清水照护同伴，稳住一夜的防线。" data-original="https://raw.githubusercontent.com/SDLTF/jiuyu-shoujie/main/assets/character-battles/13.png" aria-label="放大赵香香的战斗壁纸"><img src="../assets/character-battles/13.webp?v=daf0032c27" srcset="../assets/character-battles/13-480.webp?v=c0ba43fa2e 480w, ../assets/character-battles/13-960.webp?v=0e102405ac 959w, ../assets/character-battles/13.webp?v=daf0032c27 1672w" sizes="(max-width: 760px) calc(100vw - 32px), 50vw" alt="赵香香：酒馆受袭时，他以灵酒与清水照护同伴，稳住一夜的防线。" width="1672" height="941" loading="lazy" decoding="async"><span class="image-hint">点击放大 · 完整构图</span></button><div class="character-art-description"><p>酒馆受袭时，他以灵酒与清水照护同伴，稳住一夜的防线。</p><a href="https://raw.githubusercontent.com/SDLTF/jiuyu-shoujie/main/assets/character-battles/13.png" target="_blank" rel="noopener">查看原始 PNG ↗</a></div></article></div></section><nav class="profile-pagination" aria-label="人物导航"><a href="12.html"><span>上一位</span>单谣</a><a class="back-to-gallery" href="./">全部人物</a><a href="14.html"><span>下一位</span>彭湃</a></nav></div><dialog id="image-viewer" aria-labelledby="viewer-name"><div class="viewer-toolbar"><h2 id="viewer-name">人物档案</h2><div><button id="viewer-zoom" type="button" aria-pressed="false">放大细节</button><button id="viewer-close" type="button" aria-label="关闭图片">关闭 <span aria-hidden="true">×</span></button></div></div><div class="viewer-navigation" aria-label="图片切换"><button id="viewer-prev" type="button">← 上一幅</button><span id="viewer-position" aria-live="polite"></span><button id="viewer-next" type="button">下一幅 →</button></div><div class="viewer-image-wrap"><img id="viewer-image" alt=""></div><div class="viewer-bottom"><p class="viewer-tip">放大后可滑动查看图片细节</p><a id="viewer-original" target="_blank" rel="noopener">查看原始 PNG</a></div></dialog></main>
+<section class="character-art-section" aria-labelledby="character-art-title"><header class="character-art-intro"><p class="eyebrow">SCENES & BATTLES / 角色插画</p><h2 id="character-art-title">人物插画与战斗壁纸</h2><p>走进角色的日常与交锋。点击图片放大，用左右按钮切换档案中的插画。</p></header><div class="character-art-grid"><article class="character-art-card character-art-portrait"><div class="character-art-heading"><p class="eyebrow">人设图-2</p><h3>叙事人设</h3></div><button type="button" class="image-open character-art-image" data-image="../assets/character-scenes/13.webp?v=fdd9f6ebea" data-name="赵香香 · 人设图-2 · 叙事人设" data-kind="人设图-2" data-alt="赵香香：赵香香的第二版人设插画，沿用已有角色外观，呈现独立的动作与场景。" data-original="https://raw.githubusercontent.com/SDLTF/jiuyu-shoujie/main/assets/character-scenes/13.png" aria-label="放大赵香香的人设图-2"><img src="../assets/character-scenes/13.webp?v=fdd9f6ebea" srcset="../assets/character-scenes/13-480.webp?v=663fcb009a 480w, ../assets/character-scenes/13-960.webp?v=c246e452a4 960w, ../assets/character-scenes/13.webp?v=fdd9f6ebea 1086w" sizes="(max-width: 760px) calc(100vw - 32px), 50vw" alt="赵香香：赵香香的第二版人设插画，沿用已有角色外观，呈现独立的动作与场景。" width="1086" height="1448" loading="lazy" decoding="async"><span class="image-hint">点击放大 · 完整构图</span></button><div class="character-art-description"><p>赵香香的第二版人设插画，沿用已有角色外观，呈现独立的动作与场景。</p><a href="https://raw.githubusercontent.com/SDLTF/jiuyu-shoujie/main/assets/character-scenes/13.png" target="_blank" rel="noopener">查看原始 PNG ↗</a></div></article><article class="character-art-card character-art-battle"><div class="character-art-heading"><p class="eyebrow">战斗壁纸</p><h3>酒泉夜守</h3></div><button type="button" class="image-open character-art-image" data-image="../assets/character-battles/13.webp?v=a3c837dc4e" data-name="赵香香 · 战斗壁纸 · 酒泉夜守" data-kind="战斗壁纸" data-alt="赵香香：他一手持剑、一手握灵酒，多种配方的酒瓶悬浮环绕，在酒馆门前护住同伴。" data-original="https://raw.githubusercontent.com/SDLTF/jiuyu-shoujie/main/assets/character-battles/13.png" aria-label="放大赵香香的战斗壁纸"><img src="../assets/character-battles/13.webp?v=a3c837dc4e" srcset="../assets/character-battles/13-480.webp?v=0e1312ce6a 480w, ../assets/character-battles/13-960.webp?v=dd33838624 959w, ../assets/character-battles/13.webp?v=a3c837dc4e 1672w" sizes="(max-width: 760px) calc(100vw - 32px), 50vw" alt="赵香香：他一手持剑、一手握灵酒，多种配方的酒瓶悬浮环绕，在酒馆门前护住同伴。" width="1672" height="941" loading="lazy" decoding="async"><span class="image-hint">点击放大 · 完整构图</span></button><div class="character-art-description"><p>他一手持剑、一手握灵酒，多种配方的酒瓶悬浮环绕，在酒馆门前护住同伴。</p><a href="https://raw.githubusercontent.com/SDLTF/jiuyu-shoujie/main/assets/character-battles/13.png" target="_blank" rel="noopener">查看原始 PNG ↗</a></div></article></div></section><nav class="profile-pagination" aria-label="人物导航"><a href="12.html"><span>上一位</span>单谣</a><a class="back-to-gallery" href="./">全部人物</a><a href="14.html"><span>下一位</span>彭湃</a></nav></div><dialog id="image-viewer" aria-labelledby="viewer-name"><div class="viewer-toolbar"><h2 id="viewer-name">人物档案</h2><div><button id="viewer-zoom" type="button" aria-pressed="false">放大细节</button><button id="viewer-close" type="button" aria-label="关闭图片">关闭 <span aria-hidden="true">×</span></button></div></div><div class="viewer-navigation" aria-label="图片切换"><button id="viewer-prev" type="button">← 上一幅</button><span id="viewer-position" aria-live="polite"></span><button id="viewer-next" type="button">下一幅 →</button></div><div class="viewer-image-wrap"><img id="viewer-image" alt=""></div><div class="viewer-bottom"><p class="viewer-tip">放大后可滑动查看图片细节</p><a id="viewer-original" target="_blank" rel="noopener">查看原始 PNG</a></div></dialog></main>
 <footer class="site-footer"><div><a class="footer-title" href="../">九域守界</a><span>故事与人物档案 · SDLTF</span></div>
 <a href="../world/" class="footer-world-link">世界观与术语 ↗</a></footer>
 </body></html>
